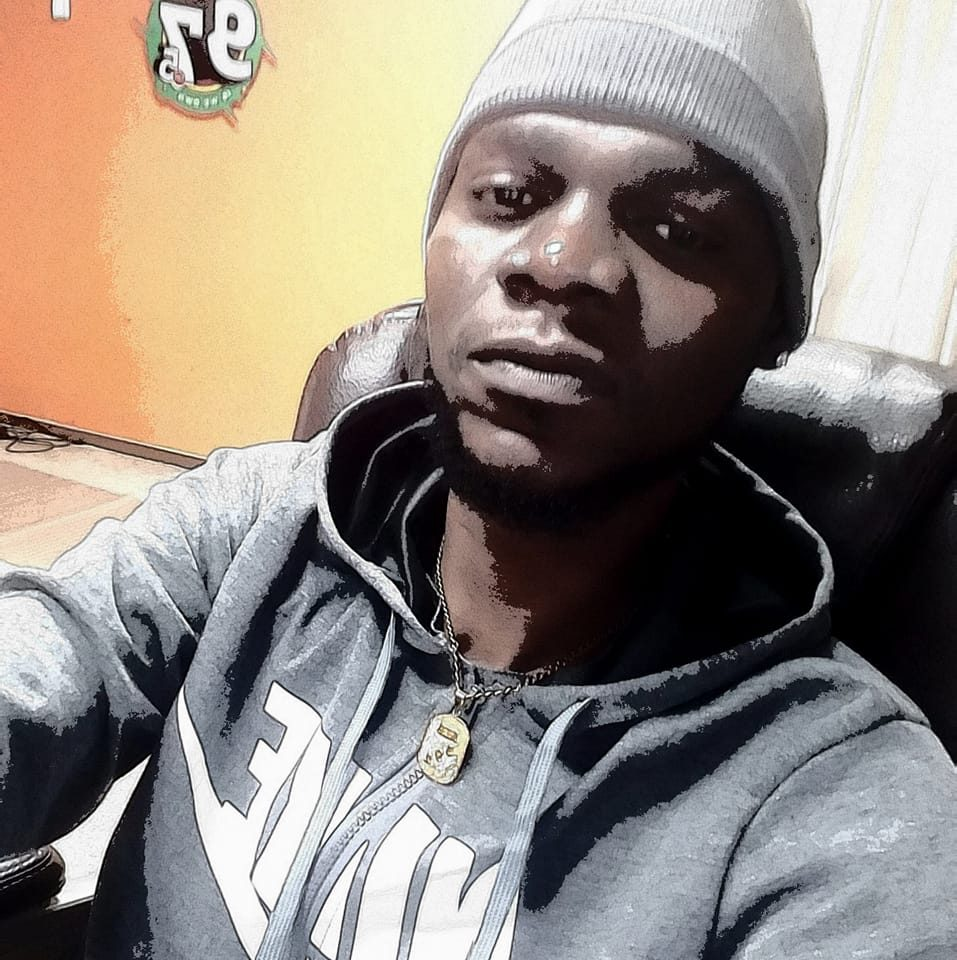
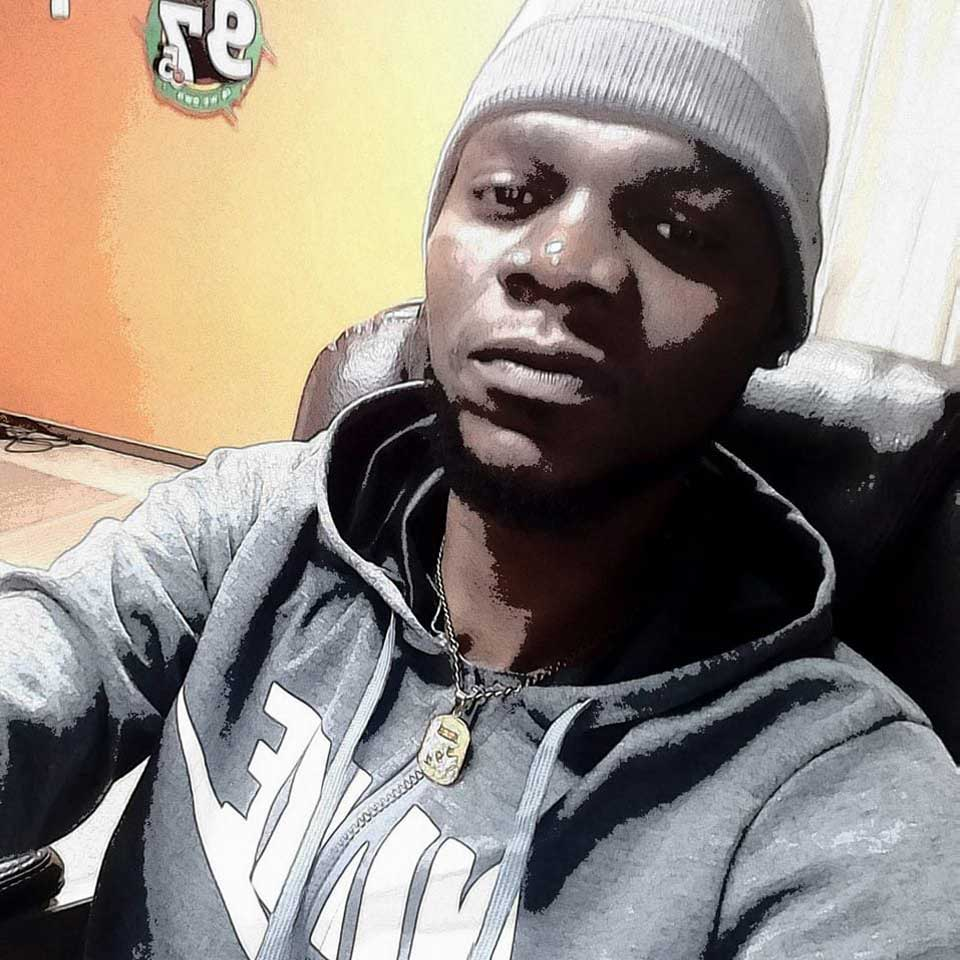
made images all same size 960x960

diff --git a/src/app/components/Schedule.tsx b/src/app/components/Schedule.tsx
@@ -16,6 +16,18 @@ const Schedule = () => {
     return colors[index % colors.length];
   };
 
+  const getShadowColor = (index: any) => {
+    const shadows = [
+      "shadow-blue-200/70",
+      "shadow-yellow-200/70",
+      "shadow-green-200/70",
+      "shadow-pink-200/70",
+      "shadow-purple-200/70",
+      "shadow-indigo-200/70",
+    ];
+    return shadows[index % shadows.length];
+  };
+
   return (
     <div className="w-full border-2 border-red-[#EDE0D4]">
       <h1
@@ -30,7 +42,7 @@ const Schedule = () => {
           <Link href={`bio/${program.id}`} key={index} >
             <div
               key={index}
-              className={`shadow-md p-4 rounded-md transition duration-300 ease-in-out transform hover:-translate-y-1 hover:shadow-lg ${getBgColor(
+              className={` p-4 rounded-md transition duration-300 ease-in-out transform shadow-lg ${getShadowColor(index)} hover:-translate-y-1 hover:shadow-lg ${getBgColor(
                 index
               )}`}
             >
@@ -45,7 +57,7 @@ const Schedule = () => {
                 alt={program.title}
                 width={150}
                 height={150}
-                className="w-full h-auto object-cover mb-2 rounded-md"
+                className="w-full h-auto object-fit mb-2 rounded-md"
               />
               <div className="font-bold text-sm sm:text-base">{program.title}</div>
 

diff --git a/src/app/page.tsx b/src/app/page.tsx
@@ -22,6 +22,7 @@ export default function Home() {
 
           Contact Us
           <p className="text-base font-light ">
+
             {/* <a href="tel:+592-226-9753">+592-225-5555</a> */}
           </p>
           <p className="text-base font-light">
